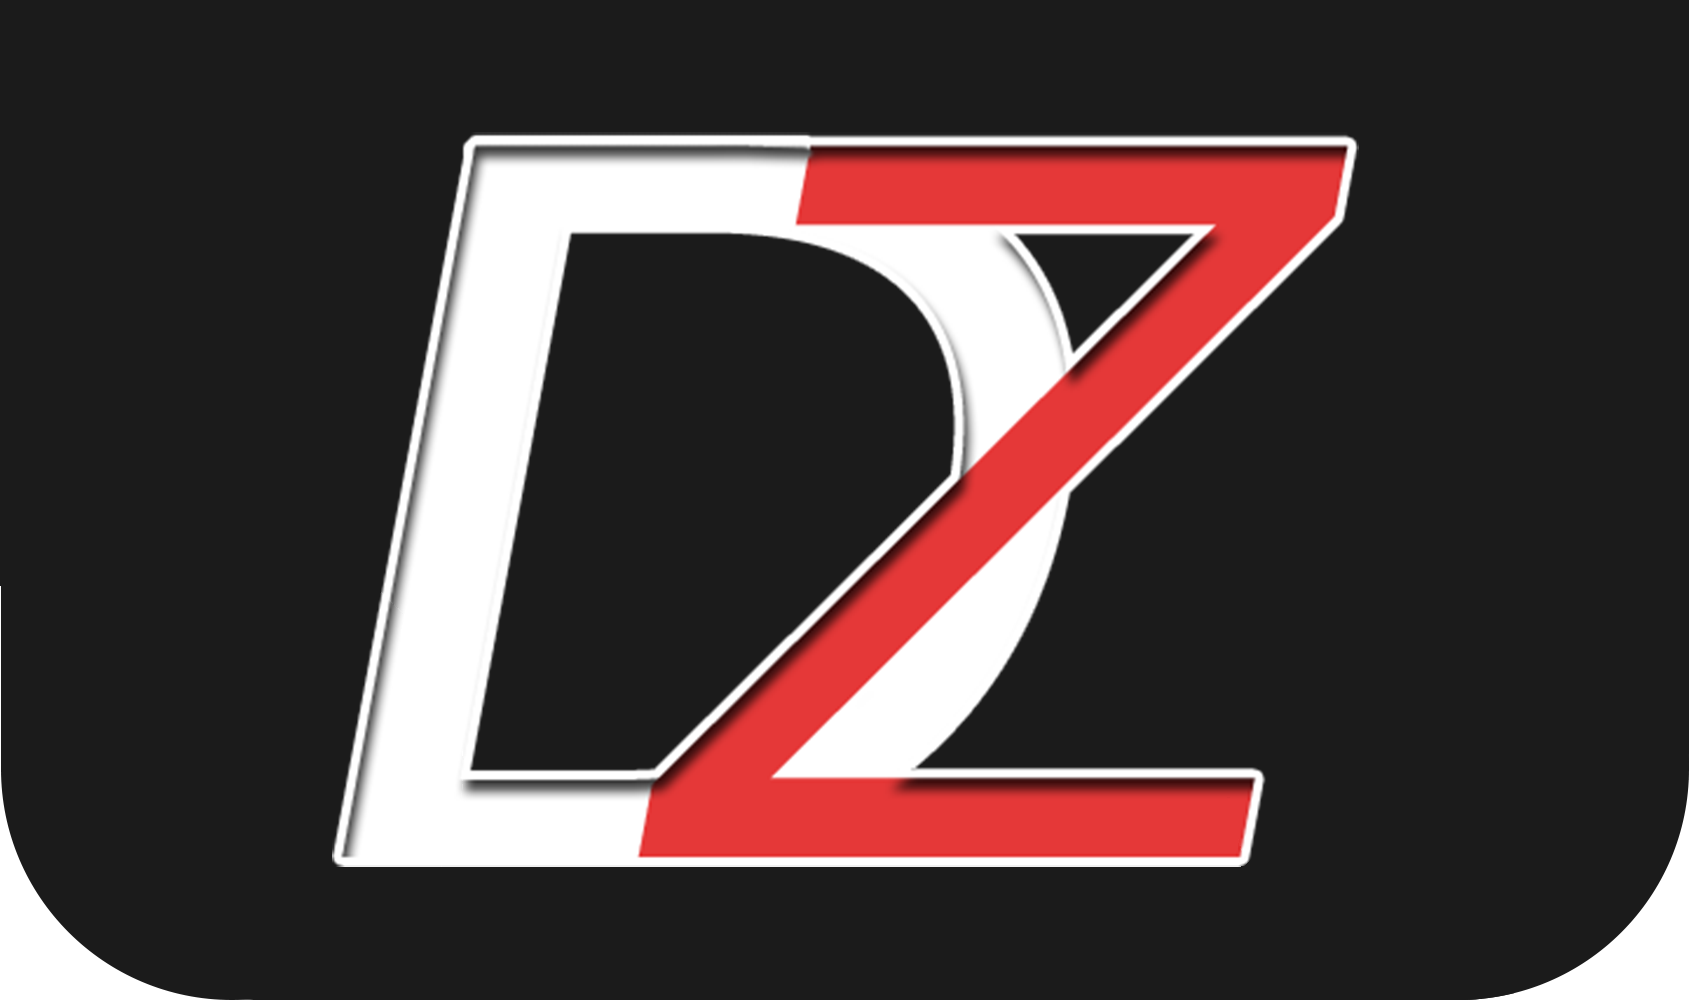
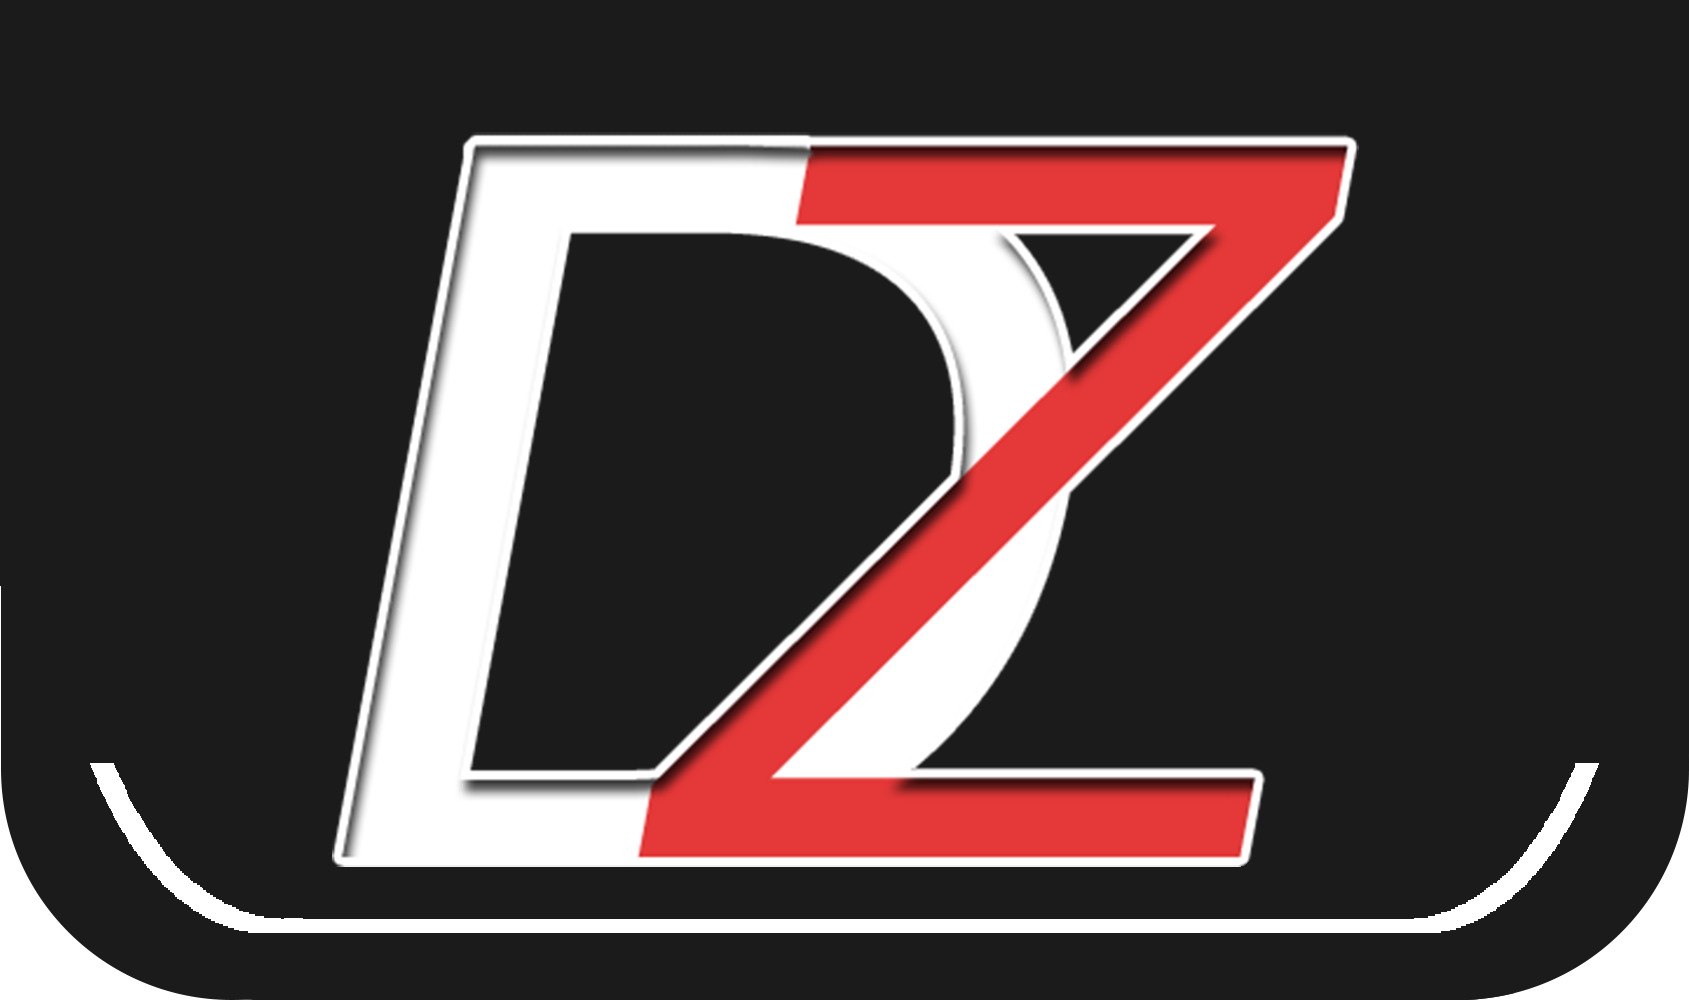
changed so it shows where on home page too

Changed region(s): [[0.0616, 0.744, 0.9544, 0.93]]

diff --git a/index.html b/index.html
@@ -10,7 +10,7 @@
 <body>
     <script src="https://ajax.googleapis.com/ajax/libs/jquery/1.11.1/jquery.min.js"></script>
     <img class="dz-bar" src="part1.png">
-    <a href="/"><img class="dz-logo" src="part2.png"></a>
+    <a href="/"><img class="dz-logo" src="part2-active.png"></a>
     <div class="bar-btns">
         <ul>
             <left><a href="portfolio/">Portfolio</a></left>
